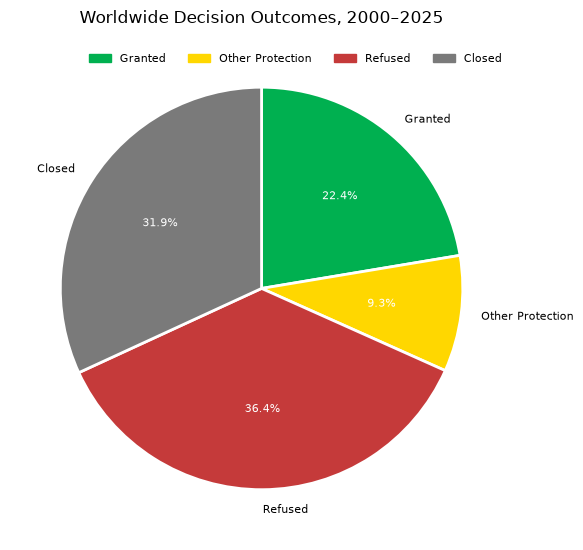
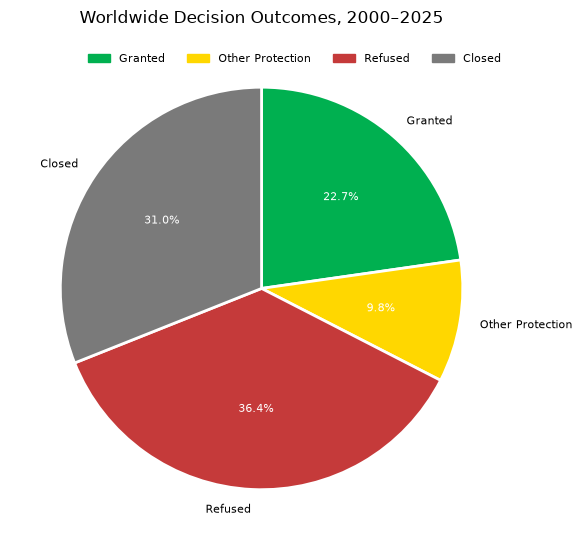
Publish complete asylum analysis with corrected methods and reader guidance

diff --git a/docs/assets/style.css b/docs/assets/style.css
@@ -2,3 +2,5 @@
 *{box-sizing:border-box}html{scroll-behavior:smooth;scroll-padding-top:25px}body{margin:0;background:var(--paper);color:var(--ink);font-family:Arial,Helvetica,sans-serif;font-size:16px;line-height:1.65}a{color:inherit;text-underline-offset:5px}a:hover{color:var(--green)}a:focus-visible{outline:3px solid #a55519;outline-offset:5px}.wrap{width:min(1200px,calc(100% - 96px));margin-inline:auto}.skip{position:absolute;top:-80px;left:15px;padding:10px;background:white;z-index:20}.skip:focus{top:10px}.site-header{min-height:100px;display:flex;justify-content:space-between;align-items:center;gap:25px;border-bottom:1px solid var(--line)}.wordmark{font-size:17px;font-weight:700;text-decoration:none;display:flex;align-items:center;gap:9px}.wordmark-note{font-size:13px;font-weight:400;color:var(--muted)}.mark{font-size:28px;color:var(--green)}nav{display:flex;gap:27px;font-size:14px}nav a{text-decoration:none}.hero{padding-block:77px 0}.eyebrow{font-family:Arial,Helvetica,sans-serif;font-size:11px;letter-spacing:1.8px;font-weight:700;line-height:1.5}.dot{display:inline-block;width:8px;height:8px;border-radius:100%;background:var(--green);margin-right:8px}h1{font-size:clamp(48px,6.7vw,88px);line-height:1.06;letter-spacing:-4px;font-weight:500;margin:28px 0 35px}h1 em{font-family:Georgia,serif;font-weight:400;color:var(--green)}.hero-bottom{display:flex;justify-content:space-between;align-items:center;gap:35px}.hero-bottom p{max-width:560px;font-size:19px;line-height:1.65;color:var(--muted);margin:0}.button{padding:14px 22px;background:var(--ink);color:white;text-decoration:none;white-space:nowrap;font-size:14px}.button span{margin-left:24px}.button:hover{background:var(--green);color:white}.toolstrip{display:flex;gap:35px;flex-wrap:wrap;align-items:center;margin-top:55px;padding-block:20px;border-block:1px solid var(--line);font-size:14px}.toolstrip span:first-child{font-size:10px;letter-spacing:1.5px;color:var(--muted)}.gallery{padding-block:78px}.section-heading{display:flex;justify-content:space-between;align-items:flex-end;gap:25px;margin-bottom:30px}h2{font-size:clamp(31px,3.4vw,42px);font-weight:500;letter-spacing:-1.3px;line-height:1.2;margin:12px 0 0}.section-heading>p{font-size:13px;color:var(--muted);margin:0}figure{margin:0}.image-link{display:block;background:white;padding:20px;border:1px solid var(--line);transition:border-color .2s}.image-link:hover{border-color:var(--green)}img{display:block;width:100%;height:auto}.feature-chart figcaption{display:grid;grid-template-columns:1fr 1fr;gap:45px;margin:24px 0 50px}h3{font-size:22px;font-weight:500;letter-spacing:-.6px;line-height:1.3;margin:9px 0 12px}figcaption p{color:var(--muted);font-size:14px;margin:0}.chart-pair{display:grid;grid-template-columns:1fr 1fr;gap:32px}.chart-pair .image-link{height:350px;display:flex;align-items:center}.chart-pair img{max-height:310px;object-fit:contain}.chart-pair figcaption{padding-top:22px}.text-link{display:inline-block;font-size:14px;font-weight:600;text-decoration:none;border-bottom:1px solid currentColor;padding-bottom:4px}.gallery>.text-link{margin-top:35px}.map-section{background:var(--ink);color:var(--paper);padding:66px 0}.map-section .eyebrow{color:var(--accent)}.tag{border:1px solid #627b7a;padding:5px 12px;font-size:10px;letter-spacing:1.5px}.map-intro{display:flex;align-items:center;justify-content:space-between;gap:35px;margin-bottom:24px}.map-intro p{font-size:15px;max-width:620px;color:#c6d3d0;margin:0}.map-section a:hover{color:var(--accent)}iframe{display:block;width:100%;height:480px;border:0;background:#e7ece9}.map-note{font-size:12px;color:#c6d3d0;margin:15px 0 0}.map-note a{margin-left:10px}.about{padding-block:80px;display:grid;grid-template-columns:1fr 1.25fr;gap:70px}.about-copy p{color:var(--muted);font-size:15px;margin:0 0 18px}.about-copy p:first-child{color:var(--ink);font-size:18px}.source-links{display:flex;gap:20px;flex-wrap:wrap;font-size:13px;margin-top:25px}footer{border-top:1px solid var(--line);padding-block:25px;display:flex;justify-content:space-between;gap:15px;font-size:11px;color:var(--muted)}
 @media(max-width:800px){.wrap{width:calc(100% - 40px)}.site-header{min-height:80px}.wordmark-note{display:none}nav{gap:16px;font-size:12px}.hero{padding-top:45px}h1{letter-spacing:-2px}.hero-bottom{display:block}.hero-bottom p{font-size:17px}.button{display:inline-block;margin-top:25px}.toolstrip{gap:20px;margin-top:35px}.gallery{padding-block:48px}.section-heading{display:block}.section-heading>p{margin-top:15px}.feature-chart figcaption{grid-template-columns:1fr;gap:10px;margin-bottom:35px}.chart-pair{grid-template-columns:1fr;gap:35px}.chart-pair .image-link{height:auto;min-height:230px}.chart-pair img{max-height:360px}.image-link{padding:10px}.map-section{padding-block:45px}.tag{display:inline-block;margin-top:15px}.map-intro{display:block}.map-intro .text-link{margin-top:15px}iframe{height:390px}.map-note a{display:block;margin:8px 0 0}.about{padding-block:50px;grid-template-columns:1fr;gap:25px}footer{flex-wrap:wrap}footer span:nth-child(2){display:none}}
 @media(prefers-reduced-motion:reduce){html{scroll-behavior:auto}.image-link{transition:none}}
+
+@media(max-width:650px){.site-header{flex-wrap:wrap;padding-block:14px;gap:8px}.site-header nav{width:100%;justify-content:space-between}}

diff --git a/docs/maps/nasa-johnson-space-center.html b/docs/maps/nasa-johnson-space-center.html
@@ -17,7 +17,7 @@
             <meta name="viewport" content="width=device-width,
                 initial-scale=1.0, maximum-scale=1.0, user-scalable=no" />
             <style>
-                #map_0ae820ee62fe42e39280e16879991dca {
+                #map_45a71b9122f39de8072fa846ff9c6307 {
                     position: relative;
                     width: 100.0%;
                     height: 100.0%;
@@ -55,14 +55,14 @@
     
     <h1 style="position:absolute;z-index:100000;left:40vw" >NASA Johnson Space Center Location</h1>
     
-            <div class="folium-map" id="map_0ae820ee62fe42e39280e16879991dca" ></div>
+            <div class="folium-map" id="map_45a71b9122f39de8072fa846ff9c6307" ></div>
         
 </body>
 <script>
     
     
-            var map_0ae820ee62fe42e39280e16879991dca = L.map(
-                "map_0ae820ee62fe42e39280e16879991dca",
+            var map_45a71b9122f39de8072fa846ff9c6307 = L.map(
+                "map_45a71b9122f39de8072fa846ff9c6307",
                 {
                     center: [29.559684888503615, -95.0830971930759],
                     crs: L.CRS.EPSG3857,
@@ -79,7 +79,7 @@
 
         
     
-            var tile_layer_5c4b9b9fa9ba4c13a5d62d6ebc80c709 = L.tileLayer(
+            var tile_layer_e5f08f6133f01b776d3f6d038014af4b = L.tileLayer(
                 "https://tile.openstreetmap.org/{z}/{x}/{y}.png",
                 {
   "minZoom": 0,
@@ -96,40 +96,40 @@
             );
         
     
-            tile_layer_5c4b9b9fa9ba4c13a5d62d6ebc80c709.addTo(map_0ae820ee62fe42e39280e16879991dca);
+            tile_layer_e5f08f6133f01b776d3f6d038014af4b.addTo(map_45a71b9122f39de8072fa846ff9c6307);
         
     
-            var circle_fa42dd1f0c45cd9b7704af744c60e656 = L.circle(
+            var circle_c972477cf7157e0bfaedc4eebe80775e = L.circle(
                 [29.559684888503615, -95.0830971930759],
                 {"bubblingMouseEvents": true, "color": "black", "dashArray": null, "dashOffset": null, "fill": true, "fillColor": "black", "fillOpacity": 0.2, "fillRule": "evenodd", "lineCap": "round", "lineJoin": "round", "opacity": 1.0, "radius": 1000, "stroke": true, "weight": 3}
-            ).addTo(map_0ae820ee62fe42e39280e16879991dca);
+            ).addTo(map_45a71b9122f39de8072fa846ff9c6307);
         
     
-        var popup_2cfeb80af11927b01553f2ec94de7bd8 = L.popup({
+        var popup_c3d9a9714c9194050e32739778fda793 = L.popup({
   "maxWidth": "100%",
 });
 
         
             
-                var html_29f0728ee34a73664748fd8dd27c2453 = $(`<div id="html_29f0728ee34a73664748fd8dd27c2453" style="width: 100.0%; height: 100.0%;">NASA Johnson Space Center</div>`)[0];
-                popup_2cfeb80af11927b01553f2ec94de7bd8.setContent(html_29f0728ee34a73664748fd8dd27c2453);
+                var html_bc05878b932b0a87b87e78ba83cf8461 = $(`<div id="html_bc05878b932b0a87b87e78ba83cf8461" style="width: 100.0%; height: 100.0%;">NASA Johnson Space Center</div>`)[0];
+                popup_c3d9a9714c9194050e32739778fda793.setContent(html_bc05878b932b0a87b87e78ba83cf8461);
             
         
 
-        circle_fa42dd1f0c45cd9b7704af744c60e656.bindPopup(popup_2cfeb80af11927b01553f2ec94de7bd8)
+        circle_c972477cf7157e0bfaedc4eebe80775e.bindPopup(popup_c3d9a9714c9194050e32739778fda793)
         ;
 
         
     
     
-            var marker_9cbe0316b5867d13d6e3e8ebce7374d5 = L.marker(
+            var marker_6aa8b943f16bb072a656630f8aa5ddf7 = L.marker(
                 [29.55, -95.05],
                 {
 }
-            ).addTo(map_0ae820ee62fe42e39280e16879991dca);
+            ).addTo(map_45a71b9122f39de8072fa846ff9c6307);
         
     
-            var div_icon_2b51e14aebae879742f11d390d8114cd = L.divIcon({
+            var div_icon_f25481fae1fd50ebc7ca668807e2bf7c = L.divIcon({
   "html": "\u003cdiv style=\"font-size: 25;color:black;\"\u003e\u003cb\u003eNASA Johnson Space Center\u003c/b\u003e\u003c/div\u003e",
   "iconSize": [20, 20],
   "iconAnchor": [0, 0],
@@ -137,7 +137,7 @@
 });
         
     
-                marker_9cbe0316b5867d13d6e3e8ebce7374d5.setIcon(div_icon_2b51e14aebae879742f11d390d8114cd);
+                marker_6aa8b943f16bb072a656630f8aa5ddf7.setIcon(div_icon_f25481fae1fd50ebc7ca668807e2bf7c);
             
 </script>
 </html>

diff --git a/docs/index.html b/docs/index.html
@@ -12,7 +12,7 @@
   <a class="skip" href="#main">Skip to content</a>
   <header class="site-header wrap">
     <a class="wordmark" href="./" aria-label="Python Charts home"><span class="mark" aria-hidden="true">▥</span> Python Charts<span class="wordmark-note"> / Kathryn Hopkins</span></a>
-    <nav aria-label="Main navigation"><a href="#charts">Charts</a><a href="#maps">Maps</a><a href="https://github.com/aloysius109/python-charts">GitHub ↗</a></nav>
+    <nav aria-label="Main navigation"><a href="asylum-analysis.html">Full analysis</a><a href="#charts">Charts</a><a href="#maps">Maps</a><a href="https://github.com/aloysius109/python-charts">GitHub ↗</a></nav>
   </header>
   <main id="main">
     <section class="hero wrap" aria-labelledby="intro-title">
@@ -23,14 +23,14 @@
     </section>
 
     <section class="gallery wrap" id="charts" aria-labelledby="charts-title">
-      <div class="section-heading"><div><span class="eyebrow">01 / SELECTED CHARTS</span><h2 id="charts-title">Asylum, in perspective.</h2></div><p>Selected notebook outputs.<br>Open any chart at full resolution.</p></div>
+      <div class="section-heading"><div><span class="eyebrow">01 / SELECTED CHARTS</span><h2 id="charts-title">Asylum, in perspective.</h2></div><p>Selected notebook outputs.<br><a href="asylum-analysis.html">Read the complete report ?</a></p></div>
       <figure class="feature-chart">
         <a class="image-link" href="assets/annual-asylum-flows.png" aria-label="Open annual asylum applications and decisions chart at full resolution"><img src="assets/annual-asylum-flows.png" alt="Annual asylum applications by type and decisions from 1999 to 2025, with persons and cases shown on separate labelled axes." width="1990" height="975" fetchpriority="high"></a>
         <figcaption><div><span class="eyebrow">TIME SERIES / MATPLOTLIB</span><h3>Following the flow of applications.</h3></div><p>New, repeat, appeal, and other applications alongside decisions. Persons and cases use separate axes; the opening 1999 pending stock is shown as context, rather than a year's applications.</p></figcaption>
       </figure>
       <div class="chart-pair">
         <figure>
-          <a class="image-link" href="assets/decision-outcomes.png" aria-label="Open worldwide decision outcomes chart at full resolution"><img src="assets/decision-outcomes.png" alt="Worldwide decision outcomes for 2000 to 2025: granted 22.4 percent, other protection 9.3 percent, refused 36.4 percent, and closed 31.9 percent." width="583" height="550" loading="lazy"></a>
+          <a class="image-link" href="assets/decision-outcomes.png" aria-label="Open worldwide decision outcomes chart at full resolution"><img src="assets/decision-outcomes.png" alt="Worldwide persons-reported decision outcomes for 2000 to 2025, showing recognised status, other protection, refusal, and administrative closure shares." width="583" height="550" loading="lazy"></a>
           <figcaption><span class="eyebrow">COMPOSITION / MATPLOTLIB</span><h3>How decisions are recorded.</h3><p>A breakdown of recorded decisions across four outcomes, aggregated over 2000–2025. These shares describe the selected extract, not an individual applicant's probability of protection.</p></figcaption>
         </figure>
         <figure>
@@ -38,7 +38,7 @@
           <figcaption><span class="eyebrow">COUNTRY COMPARISON / MATPLOTLIB</span><h3>Comparing receiving countries.</h3><p>A 2025 ranking by reported application volume. This exploratory chart combines persons and cases, which are different units; it is not a like-for-like count of people.</p></figcaption>
         </figure>
       </div>
-      <a class="text-link" href="https://github.com/aloysius109/python-charts/blob/main/UNHCRData.ipynb">Read the executed analysis notebook <span aria-hidden="true">↗</span></a>
+      <a class="text-link" href="asylum-analysis.html">Read the complete asylum analysis <span aria-hidden="true">↗</span></a>
     </section>
 
     <section class="map-section" id="maps" aria-labelledby="maps-title">

diff --git a/docs/assets/report.css b/docs/assets/report.css
@@ -1,0 +1,5 @@
+:root{color-scheme:light;--jp-content-font-family:Arial,Helvetica,sans-serif;--jp-content-font-size1:16px;--jp-content-line-height:1.8;--jp-ui-font-family:Arial,Helvetica,sans-serif}
+html{scroll-behavior:smooth;scroll-padding-top:85px}body.jp-Notebook{margin:0!important;padding:0!important;background:#f7f6f0!important;color:#102d36}.report-nav{position:sticky;top:0;z-index:10;display:flex;justify-content:space-between;gap:20px;padding:18px max(25px,calc((100% - 1100px)/2));background:#102d36;color:#f7f6f0;font:13px/1.5 Arial,sans-serif}.report-nav a{color:inherit;text-decoration:none}.report-nav a:hover{text-decoration:underline}.jp-Notebook>main,.jp-Notebook .jp-Notebook{max-width:1160px;margin:0 auto;padding:35px 30px!important;background:#f7f6f0}.jp-RenderedHTMLCommon{color:#102d36;line-height:1.8}.jp-RenderedHTMLCommon h1{font-size:clamp(32px,4vw,54px);line-height:1.13;letter-spacing:-1.5px;margin-block:30px}.jp-RenderedHTMLCommon h2{font-size:29px;line-height:1.25;border-top:1px solid #d6ded8;padding-top:30px;margin-top:40px}.jp-RenderedHTMLCommon h3{font-size:21px;margin-top:28px}.jp-RenderedHTMLCommon p,.jp-RenderedHTMLCommon li{max-width:85ch}.jp-RenderedHTMLCommon a{color:#315a46;text-underline-offset:4px}.jp-Cell{margin-block:16px}.jp-OutputArea-output img{max-width:100%;height:auto;background:white}.jp-OutputArea-output{overflow:auto}.jp-OutputArea-output pre{white-space:pre-wrap;overflow-wrap:anywhere}.code-panel,.preparation-panel{margin:8px 0;border:1px solid #d6ded8;background:#fff;padding:10px 15px;font:13px/1.6 Arial,sans-serif}.code-panel summary,.preparation-panel summary{cursor:pointer;color:#315a46}.code-panel[open] summary,.preparation-panel[open] summary{margin-bottom:15px}.jp-InputArea-editor{max-height:650px;overflow:auto}.jp-InputArea pre{font-size:12px!important}.static-note{background:#e6edde;padding:12px 16px;font-size:13px;color:#315a46}a:focus-visible,summary:focus-visible{outline:3px solid #a55519;outline-offset:4px}.jp-OutputArea-prompt{display:none}
+@media(max-width:700px){.report-nav{padding:14px 18px;font-size:12px}.report-nav span{display:none}.jp-Notebook>main,.jp-Notebook .jp-Notebook{padding:20px 10px!important}.jp-RenderedHTMLCommon h2{font-size:25px}.jp-RenderedHTMLCommon{font-size:15px}.jp-CodeCell{padding-inline:0}.jp-OutputArea-output{min-width:0}}
+@media(prefers-reduced-motion:reduce){html{scroll-behavior:auto}}
+@media print{.report-nav,.code-panel{display:none}body.jp-Notebook{background:white!important}.jp-RenderedHTMLCommon h2{break-after:avoid}.jp-OutputArea-output img{break-inside:avoid}}

diff --git a/scripts/publish_notebook.py b/scripts/publish_notebook.py
@@ -1,0 +1,148 @@
+"""Export the complete executed analysis as a static GitHub Pages report."""
+import copy
+import hashlib
+import json
+import re
+from pathlib import Path
+
+import nbformat
+from nbconvert import HTMLExporter
+from traitlets.config import Config
+
+ROOT = Path(__file__).resolve().parents[1]
+DOCS = ROOT / "docs"
+WIDGET_VIEW = "application/vnd.jupyter.widget-view+json"
+WIDGET_STATE = "application/vnd.jupyter.widget-state+json"
+
+
+def static_widget_outputs(model_id, states, seen=None):
+    """Extract saved initial Output-widget content, without pretending callbacks run."""
+    seen = set() if seen is None else seen
+    if model_id in seen:
+        return []
+    seen.add(model_id)
+    state = states.get(model_id, {}).get("state", {})
+    outputs = [nbformat.from_dict(output) for output in state.get("outputs", [])]
+    for child in state.get("children", []):
+        if isinstance(child, str) and child.startswith("IPY_MODEL_"):
+            outputs.extend(static_widget_outputs(child.removeprefix("IPY_MODEL_"), states, seen))
+    return outputs
+
+
+def main():
+    notebook = nbformat.read(ROOT / "UNHCRData.ipynb", as_version=4)
+    nbformat.validate(notebook)
+    states = notebook.metadata.get("widgets", {}).get(WIDGET_STATE, {}).get("state", {})
+    source_cells = [cell for cell in notebook.cells if cell.cell_type == "code"]
+    if any(cell.execution_count is None for cell in source_cells):
+        raise ValueError("Every code cell must be executed before publication.")
+    fingerprint = hashlib.sha256(json.dumps([cell.source for cell in source_cells], ensure_ascii=False).encode("utf-8")).hexdigest()
+    if notebook.metadata.get("executed_code_sha256") != fingerprint:
+        raise ValueError("Code changed since its verified execution; rerun scripts/execute_notebook.py.")
+    for cell in source_cells:
+        if any(output.output_type == "error" for output in cell.outputs):
+            raise ValueError("Notebook contains saved execution errors.")
+    notebook = copy.deepcopy(notebook)
+    for cell in notebook.cells:
+        if cell.cell_type != "code":
+            continue
+        converted = []
+        for output in cell.outputs:
+            if WIDGET_VIEW in output.get("data", {}):
+                model_id = output.data[WIDGET_VIEW]["model_id"]
+                converted.extend(static_widget_outputs(model_id, states))
+            else:
+                converted.append(output)
+        if "kernel-widget" in cell.metadata.get("tags", []):
+            converted.insert(0, nbformat.v4.new_output("display_data", data={
+                "text/html": '<p class="static-note">Static initial view. To change the selection, open the notebook with a running Jupyter kernel.</p>'
+            }))
+        if any(output.output_type == "error" for output in converted):
+            raise ValueError("A widget callback contains a saved error.")
+        # Keep complete source and preparation outputs available in expandable panels.
+        if "technical" in cell.metadata.get("tags", []) and converted:
+            converted.insert(0, nbformat.v4.new_output("display_data", data={
+                "text/html": '<span class="technical-marker" hidden></span>'
+            }))
+        cell.outputs = converted
+        # Give static chart images an accessible description from the source heading.
+        heading = cell.source.splitlines()[0].lstrip("# %").strip() if cell.source else "Analysis chart"
+        for output in converted:
+            if "image/png" in output.get("data", {}):
+                output.setdefault("metadata", {})["alt"] = heading
+    notebook.metadata.pop("widgets", None)
+    config = Config()
+    config.ExtractOutputPreprocessor.enabled = True
+    config.HTMLExporter.exclude_input_prompt = True
+    config.HTMLExporter.exclude_output_prompt = True
+    config.HTMLExporter.embed_images = False
+    exporter = HTMLExporter(config=config, template_name="lab")
+    body, resources = exporter.from_notebook_node(notebook, resources={
+        "metadata": {"name": "Understanding asylum applications, decisions, and pending claims"},
+        "unique_key": "asylum-report",
+        "output_files_dir": "assets/report",
+    })
+    assets = resources.get("outputs", {})
+    for filename, content in assets.items():
+        target = (DOCS / filename).resolve()
+        if not target.is_relative_to(DOCS.resolve()):
+            raise ValueError("Export path escapes docs/.")
+        target.parent.mkdir(parents=True, exist_ok=True)
+        target.write_bytes(content)
+    # Remove only this exporter's stale generated image files after a successful export.
+    figure_directory = DOCS / "assets/report"
+    if figure_directory.exists():
+        retained = {(DOCS / filename).resolve() for filename in assets}
+        for previous in figure_directory.glob("asylum-report_*.png"):
+            if previous.resolve().is_relative_to(figure_directory.resolve()) and previous.resolve() not in retained:
+                previous.unlink()
+    navigation = """<nav class="report-nav" aria-label="Report navigation">
+<a href="./">← Python Charts</a><span>Asylum statistics / Full analysis</span>
+<a href="https://github.com/aloysius109/python-charts/blob/main/UNHCRData.ipynb">Notebook &amp; source ↗</a></nav>"""
+    body = body.replace("</head>", '<link rel="stylesheet" href="assets/report.css"></head>')
+    body = body.replace("<body", '<body', 1)
+    start = body.index(">", body.index("<body")) + 1
+    body = body[:start] + navigation + body[start:]
+    script = """<script>
+document.querySelectorAll('.jp-CodeCell').forEach(cell => {
+  const input = cell.querySelector('.jp-Cell-inputWrapper');
+  if (input) {
+    const details = document.createElement('details');
+    details.className = 'code-panel';
+    const summary = document.createElement('summary');
+    summary.textContent = 'Show Python source';
+    details.append(summary);
+    input.before(details);
+    details.append(input);
+  }
+  if (cell.querySelector('.technical-marker')) {
+    const output = cell.querySelector('.jp-Cell-outputWrapper');
+    if (output) {
+      const details = document.createElement('details');
+      details.className = 'preparation-panel';
+      const summary = document.createElement('summary');
+      summary.textContent = 'Data preparation, coverage & provenance';
+      details.append(summary);
+      output.before(details);
+      details.append(output);
+    }
+  }
+});
+document.querySelectorAll('img').forEach(img => {
+  img.loading = 'lazy';
+  if (!img.alt || img.alt === 'No description has been provided for this image') {
+    const cell = img.closest('.jp-CodeCell');
+    const source = cell && cell.querySelector('.jp-InputArea');
+    img.alt = source ? source.textContent.trim().split('\\n')[0].replace(/^#\\s*%*\\s*/, '') : 'Chart from the asylum analysis';
+  }
+});
+</script>"""
+    body = re.sub(r'<img(?![^>]*\bloading=)', '<img loading="lazy"', body)
+    body = body.replace("</body>", script + "</body>")
+    DOCS.mkdir(exist_ok=True)
+    (DOCS / "asylum-analysis.html").write_text(body, encoding="utf-8")
+    print(f"Published full report with {len(source_cells)} executed code cells and {len(assets)} exported figures.")
+
+
+if __name__ == "__main__":
+    main()

diff --git a/scripts/execute_notebook.py b/scripts/execute_notebook.py
@@ -1,6 +1,8 @@
 """Refresh saved notebook outputs only after a complete successful execution."""
 from pathlib import Path
 import shutil
+import hashlib
+import json
 import tempfile
 import nbformat
 from nbclient import NotebookClient
@@ -28,6 +30,16 @@ with tempfile.TemporaryDirectory() as work:
     errors = [o for c in notebook.cells if c.cell_type == "code"
               for o in c.outputs if o.output_type == "error"]
     assert not errors
+    widget_states = notebook.metadata.get("widgets", {}).get("application/vnd.jupyter.widget-state+json", {}).get("state", {})
+    widget_errors = [output for model in widget_states.values()
+                     for output in model.get("state", {}).get("outputs", [])
+                     if output.get("output_type") == "error"]
+    if widget_errors:
+        raise RuntimeError("A widget callback failed during notebook execution.")
+    notebook.metadata["executed_code_sha256"] = hashlib.sha256(
+        json.dumps([cell.source for cell in notebook.cells if cell.cell_type == "code"],
+                   ensure_ascii=False).encode("utf-8")
+    ).hexdigest()
     nbformat.validate(notebook)
     nbformat.write(notebook, source)
     print("Saved successfully executed notebook", flush=True)

diff --git a/README.md b/README.md
@@ -180,3 +180,35 @@ outputs as artifacts; it does not update or deploy the curated Pages files.
 The portfolio uses aggregate public UNHCR snapshots and a geographic location
 example. Maps require external JavaScript and map-tile services. No private work
 files or client datasets are included in `docs/`.
+
+## Complete asylum-statistics report
+
+Read the **[full published analysis](https://aloysius109.github.io/python-charts/asylum-analysis.html)**.
+It includes the complete notebook narrative and charts, expandable Python source,
+and saved initial views of the Jupyter controls. Changing dropdown selections
+requires a live Jupyter kernel; GitHub Pages does not execute Python.
+
+The publication distinguishes persons from cases, recognised shares of all
+recorded decisions from substantive-decision recognition rates, and observed
+pending stocks from annual flow differences. Main worldwide summaries use
+persons-reported records. Mixed-unit country selections remain exploratory and
+are identified in the text. Decisions without current-year matching applications
+are retained, and unsupported case-to-person estimates and modelled backlog
+allocations have been removed. Eurostat pending observations are labelled as
+all-instance pending persons.
+
+To refresh the complete publication and gallery:
+
+```bash
+python -m pip install -r requirements.txt
+python -X utf8 scripts/execute_notebook.py
+python -X utf8 scripts/publish_notebook.py
+python -X utf8 scripts/build_portfolio.py
+```
+
+Review and commit the updated notebook, `docs/asylum-analysis.html`,
+`docs/assets/report/`, and gallery assets together. The exporter refuses unexecuted
+cells and saved errors, including failures captured in widget callbacks. Input
+hashes, source coverage, and cache provenance appear in the notebook. Live stock
+sources can change between executions, so retain the executed version used for
+any published figure.
